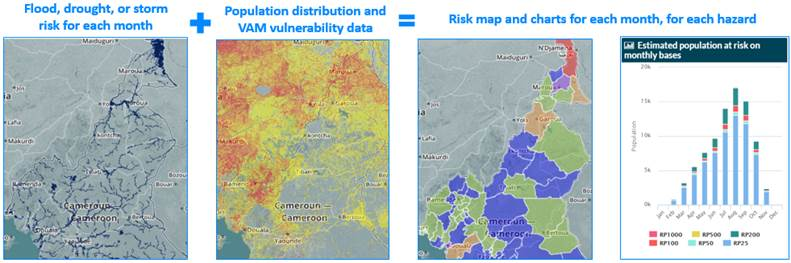
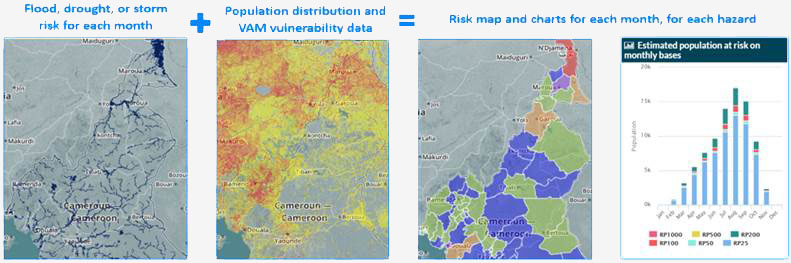
style to grey background

diff --git a/geonode/static/lib/css/sparc_custom.css b/geonode/static/lib/css/sparc_custom.css
@@ -654,3 +654,113 @@ input[type="checkbox"].checkbox:checked + label {
 input[type="checkbox"].checkbox:disabled + label {
     opacity: 0.5;
 }
+
+.thumb {
+	border:#ccc 1px solid;
+
+	-moz-border-radius:3px;
+	-webkit-border-radius:3px;
+	border-radius:3px;
+
+	-moz-box-shadow: 0 1px 2px #d1d1d1;
+	-webkit-box-shadow: 0 1px 2px #d1d1d1;
+	box-shadow: 0 1px 2px #d1d1d1;
+	margin-bottom: 10px;
+}
+
+#wrap {
+  background: #F5F5F5;
+}  
+
+table {
+	font-family:Arial, Helvetica, sans-serif;
+	color:#666;
+	font-size:12px;
+	text-shadow: 1px 1px 0px #fff;
+	background:#eaebec;
+	/*margin:20px;*/
+	border:#ccc 0px solid;
+
+	-moz-border-radius:3px;
+	-webkit-border-radius:3px;
+	border-radius:3px;
+
+	-moz-box-shadow: 0 1px 2px #d1d1d1;
+	-webkit-box-shadow: 0 1px 2px #d1d1d1;
+	box-shadow: 0 1px 2px #d1d1d1;
+}
+table th {
+	padding:5px 5px 5px 5px;
+	border-top:1px solid #fafafa;
+	border-bottom:1px solid #e0e0e0;
+
+	background: #ededed;
+	background: -webkit-gradient(linear, left top, left bottom, from(#ededed), to(#ebebeb));
+	background: -moz-linear-gradient(top,  #ededed,  #ebebeb);
+}
+table th:first-child {
+	text-align: left;
+	/*padding-left:20px;*/
+}
+table tr:first-child th:first-child {
+	-moz-border-radius-topleft:3px;
+	-webkit-border-top-left-radius:3px;
+	border-top-left-radius:3px;
+}
+table tr:first-child th:last-child {
+	-moz-border-radius-topright:3px;
+	-webkit-border-top-right-radius:3px;
+	border-top-right-radius:3px;
+}
+table tr {
+	text-align: center;
+	padding-left:20px;
+}
+table td:first-child {
+	text-align: left;
+	padding-left:20px;
+	border-left: 0;
+}
+table td {
+	/*padding:18px;*/
+	border-top: 1px solid #ffffff;
+	border-bottom:1px solid #e0e0e0;
+	border-left: 1px solid #e0e0e0;
+
+	background: #fafafa;
+	background: -webkit-gradient(linear, left top, left bottom, from(#fbfbfb), to(#fafafa));
+	background: -moz-linear-gradient(top,  #fbfbfb,  #fafafa);
+}
+table tr.even td {
+	background: #f6f6f6;
+	background: -webkit-gradient(linear, left top, left bottom, from(#f8f8f8), to(#f6f6f6));
+	background: -moz-linear-gradient(top,  #f8f8f8,  #f6f6f6);
+}
+table tr:last-child td {
+	border-bottom:0;
+}
+table tr:last-child td:first-child {
+	-moz-border-radius-bottomleft:3px;
+	-webkit-border-bottom-left-radius:3px;
+	border-bottom-left-radius:3px;
+}
+table tr:last-child td:last-child {
+	-moz-border-radius-bottomright:3px;
+	-webkit-border-bottom-right-radius:3px;
+	border-bottom-right-radius:3px;
+}
+table tr:hover td {
+	background: #f2f2f2;
+	background: -webkit-gradient(linear, left top, left bottom, from(#f2f2f2), to(#f0f0f0));
+	background: -moz-linear-gradient(top,  #f2f2f2,  #f0f0f0);	
+}
+
+.items-list {
+  border-bottom: 0px solid #eee; 
+  border-top: 0px solid #eee; 
+  margin-bottom: 20px;
+}
+
+.table {
+	margin-bottom: 0px;
+}
